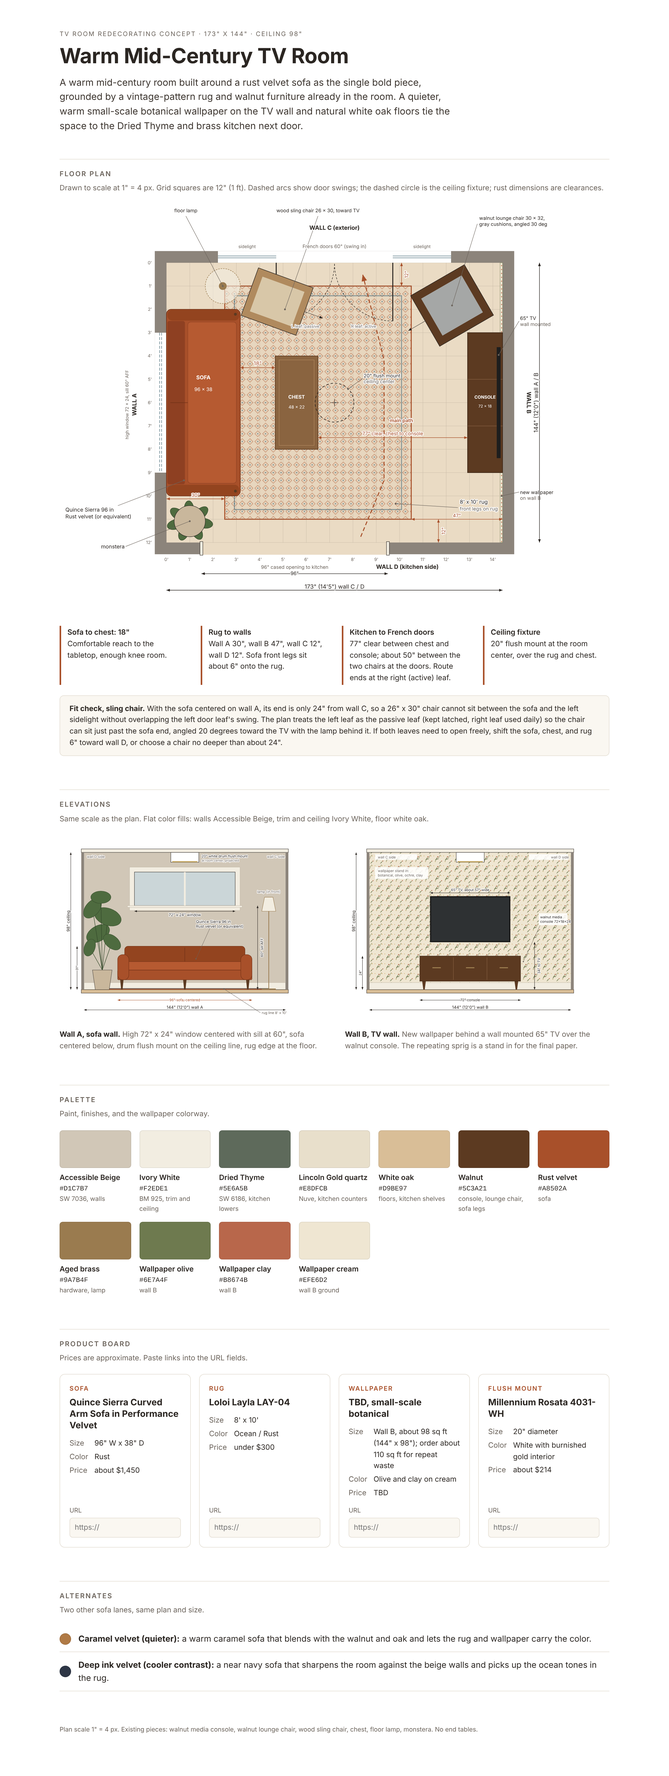
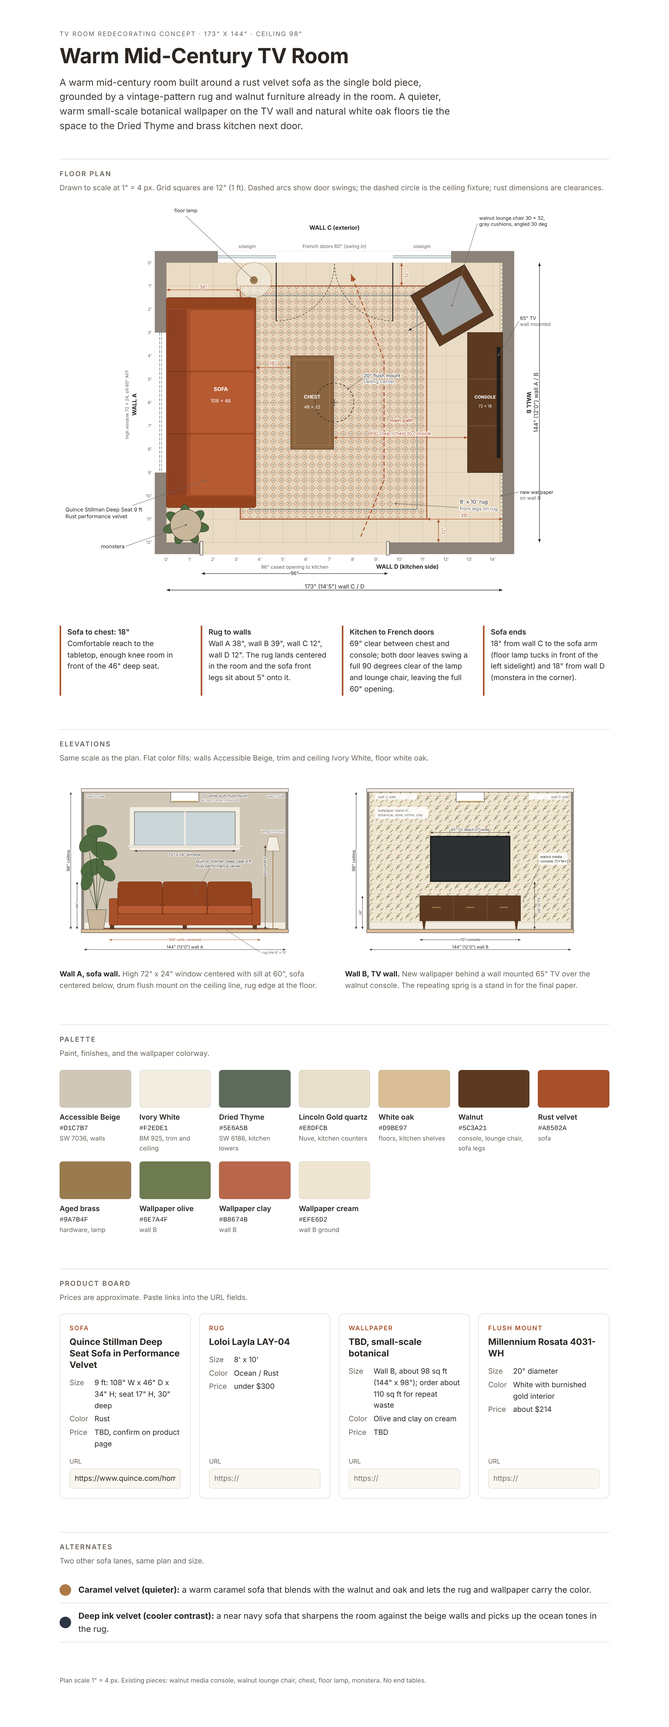
Swap to Quince Stillman 9 ft deep seat sofa and remove sling chair
Redraws plan and wall A elevation at 108 x 46 x 34, recenters chest and rug,
restores both French door leaves, and updates clearances and product card.

Claude-Session: https://claude.ai/code/session_014nUbJTm2NDApbS2dWqrat1

diff --git a/tv-room-concept.html b/tv-room-concept.html
@@ -83,8 +83,8 @@ footer{font-size:12px;color:var(--muted)}
 </defs>
 <rect x="196" y="96" width="740" height="624" fill="#8C847B"/>
 <rect x="220" y="120" width="692" height="576" fill="#EADBC4"/>
-<rect x="340" y="168" width="384" height="480" fill="url(#rugpat)" stroke="#A8502A" stroke-width="2"/>
-<rect x="360" y="188" width="344" height="440" fill="none" stroke="#5D7A85" stroke-width="2" opacity="0.7"/>
+<rect x="372" y="168" width="384" height="480" fill="url(#rugpat)" stroke="#A8502A" stroke-width="2"/>
+<rect x="392" y="188" width="344" height="440" fill="none" stroke="#5D7A85" stroke-width="2" opacity="0.7"/>
 <g stroke="#7A6F64" stroke-width="0.5" opacity="0.35"><line x1="220" y1="120" x2="220" y2="696"/><line x1="268" y1="120" x2="268" y2="696"/><line x1="316" y1="120" x2="316" y2="696"/><line x1="364" y1="120" x2="364" y2="696"/><line x1="412" y1="120" x2="412" y2="696"/><line x1="460" y1="120" x2="460" y2="696"/><line x1="508" y1="120" x2="508" y2="696"/><line x1="556" y1="120" x2="556" y2="696"/><line x1="604" y1="120" x2="604" y2="696"/><line x1="652" y1="120" x2="652" y2="696"/><line x1="700" y1="120" x2="700" y2="696"/><line x1="748" y1="120" x2="748" y2="696"/><line x1="796" y1="120" x2="796" y2="696"/><line x1="844" y1="120" x2="844" y2="696"/><line x1="892" y1="120" x2="892" y2="696"/><line x1="220" y1="120" x2="912" y2="120"/><line x1="220" y1="168" x2="912" y2="168"/><line x1="220" y1="216" x2="912" y2="216"/><line x1="220" y1="264" x2="912" y2="264"/><line x1="220" y1="312" x2="912" y2="312"/><line x1="220" y1="360" x2="912" y2="360"/><line x1="220" y1="408" x2="912" y2="408"/><line x1="220" y1="456" x2="912" y2="456"/><line x1="220" y1="504" x2="912" y2="504"/><line x1="220" y1="552" x2="912" y2="552"/><line x1="220" y1="600" x2="912" y2="600"/><line x1="220" y1="648" x2="912" y2="648"/><line x1="220" y1="696" x2="912" y2="696"/></g>
 <text x="220" y="734" font-size="9" text-anchor="middle" class="gridt" fill="#6B635B">0'</text><text x="268" y="734" font-size="9" text-anchor="middle" class="gridt" fill="#6B635B">1'</text><text x="316" y="734" font-size="9" text-anchor="middle" class="gridt" fill="#6B635B">2'</text><text x="364" y="734" font-size="9" text-anchor="middle" class="gridt" fill="#6B635B">3'</text><text x="412" y="734" font-size="9" text-anchor="middle" class="gridt" fill="#6B635B">4'</text><text x="460" y="734" font-size="9" text-anchor="middle" class="gridt" fill="#6B635B">5'</text><text x="508" y="734" font-size="9" text-anchor="middle" class="gridt" fill="#6B635B">6'</text><text x="556" y="734" font-size="9" text-anchor="middle" class="gridt" fill="#6B635B">7'</text><text x="604" y="734" font-size="9" text-anchor="middle" class="gridt" fill="#6B635B">8'</text><text x="652" y="734" font-size="9" text-anchor="middle" class="gridt" fill="#6B635B">9'</text><text x="700" y="734" font-size="9" text-anchor="middle" class="gridt" fill="#6B635B">10'</text><text x="748" y="734" font-size="9" text-anchor="middle" class="gridt" fill="#6B635B">11'</text><text x="796" y="734" font-size="9" text-anchor="middle" class="gridt" fill="#6B635B">12'</text><text x="844" y="734" font-size="9" text-anchor="middle" class="gridt" fill="#6B635B">13'</text><text x="892" y="734" font-size="9" text-anchor="middle" class="gridt" fill="#6B635B">14'</text><text x="190" y="123" font-size="9" text-anchor="end" class="gridt" fill="#6B635B">0'</text><text x="190" y="171" font-size="9" text-anchor="end" class="gridt" fill="#6B635B">1'</text><text x="190" y="219" font-size="9" text-anchor="end" class="gridt" fill="#6B635B">2'</text><text x="190" y="267" font-size="9" text-anchor="end" class="gridt" fill="#6B635B">3'</text><text x="190" y="315" font-size="9" text-anchor="end" class="gridt" fill="#6B635B">4'</text><text x="190" y="363" font-size="9" text-anchor="end" class="gridt" fill="#6B635B">5'</text><text x="190" y="411" font-size="9" text-anchor="end" class="gridt" fill="#6B635B">6'</text><text x="190" y="459" font-size="9" text-anchor="end" class="gridt" fill="#6B635B">7'</text><text x="190" y="507" font-size="9" text-anchor="end" class="gridt" fill="#6B635B">8'</text><text x="190" y="555" font-size="9" text-anchor="end" class="gridt" fill="#6B635B">9'</text><text x="190" y="603" font-size="9" text-anchor="end" class="gridt" fill="#6B635B">10'</text><text x="190" y="651" font-size="9" text-anchor="end" class="gridt" fill="#6B635B">11'</text><text x="190" y="699" font-size="9" text-anchor="end" class="gridt" fill="#6B635B">12'</text>
 <rect x="326.0" y="96" width="120.0" height="24" fill="#fff"/>
@@ -106,42 +106,40 @@ footer{font-size:12px;color:var(--muted)}
 <rect x="673" y="694" width="6" height="28" fill="#F2EDE1" stroke="#2B2622" stroke-width="0.8"/>
 <rect x="907" y="120" width="5" height="576" fill="url(#wp-strip)" stroke="#6E7A4F" stroke-width="0.6"/>
 <g>
-<rect x="220" y="216" width="152" height="384" rx="10" fill="#A8502A" stroke="#6E2F15" stroke-width="1.2"/>
-<rect x="222" y="240" width="36" height="336" rx="4" fill="#8E4022"/>
-<rect x="222" y="217" width="148" height="22" rx="10" fill="#93441F"/>
-<rect x="222" y="577" width="148" height="22" rx="10" fill="#93441F"/>
-<rect x="264" y="242" width="100" height="332" rx="6" fill="#B65A31" stroke="#8E4022" stroke-width="0.8"/>
-<line x1="228" y1="408" x2="264" y2="408" stroke="#6E2F15" stroke-width="1"/>
-<circle cx="362.0" cy="226.0" r="3" fill="#5C3A21"/>
-<circle cx="362.0" cy="590.0" r="3" fill="#5C3A21"/>
+<rect x="220" y="192" width="184" height="432" rx="4" fill="#A8502A" stroke="#6E2F15" stroke-width="1.2"/>
+<rect x="222" y="216" width="40" height="384" rx="3" fill="#8E4022"/>
+<rect x="221" y="193" width="182" height="22" rx="3" fill="#93441F"/>
+<rect x="221" y="601" width="182" height="22" rx="3" fill="#93441F"/>
+<rect x="268" y="217.0" width="132" height="126.0" rx="5" fill="#B65A31" stroke="#8E4022" stroke-width="0.8"/>
+<rect x="268" y="345.0" width="132" height="126.0" rx="5" fill="#B65A31" stroke="#8E4022" stroke-width="0.8"/>
+<line x1="224" y1="344.0" x2="268" y2="344.0" stroke="#6E2F15" stroke-width="1"/>
+<rect x="268" y="473.0" width="132" height="126.0" rx="5" fill="#B65A31" stroke="#8E4022" stroke-width="0.8"/>
+<line x1="224" y1="472.0" x2="268" y2="472.0" stroke="#6E2F15" stroke-width="1"/>
 </g>
-<rect x="444" y="312" width="88" height="192" fill="#8A6440" stroke="#5C3A21" stroke-width="1.2"/>
-<rect x="452" y="320" width="72" height="176" fill="none" stroke="#B48C62" stroke-width="0.8"/>
+<rect x="476" y="312" width="88" height="192" fill="#8A6440" stroke="#5C3A21" stroke-width="1.2"/>
+<rect x="484" y="320" width="72" height="176" fill="none" stroke="#B48C62" stroke-width="0.8"/>
 <rect x="840" y="264" width="72" height="288" fill="#5C3A21" stroke="#3A2414" stroke-width="1.2"/>
 <line x1="840" y1="360" x2="912" y2="360" stroke="#8B6446" stroke-width="0.8"/>
 <line x1="840" y1="456" x2="912" y2="456" stroke="#8B6446" stroke-width="0.8"/>
 <rect x="900" y="293.8" width="8" height="228.39999999999998" fill="#1E1E1E"/>
 <polygon points="893.4,228 782.6,292 722.6,188 833.4,124" fill="#5C3A21" stroke="#2B2622" stroke-width="1"/><polygon points="871.6,222.1 788.4,270.1 744.4,193.9 827.6,145.9" fill="#A5A7A6" stroke="none"/>
-<polygon points="409.4,130.6 522.2,171.7 486.6,269.4 373.8,228.3" fill="#B08A5E" stroke="#2B2622" stroke-width="1"/><polygon points="417.8,148.6 504.2,180 478.2,251.4 391.8,220" fill="#D8C7A8" stroke="none"/>
 <line x1="752.6" y1="240" x2="717.9" y2="260" stroke="#6B635B" stroke-width="1" marker-end="url(#fp-a)"/>
-<line x1="504.4" y1="220.5" x2="542" y2="234.2" stroke="#6B635B" stroke-width="1" marker-end="url(#fp-a)"/>
-<circle cx="336" cy="168" r="36" fill="#F2EDE1" fill-opacity="0.6" stroke="#9A7B4F" stroke-width="1" stroke-dasharray="3 2"/>
-<circle cx="336" cy="168" r="8" fill="#9A7B4F"/>
-<ellipse cx="297.5" cy="656.2" rx="18" ry="10" transform="rotate(10 297.5 656.2)" fill="#4E6B3F" stroke="#33482A" stroke-width="0.8"/><ellipse cx="282.3" cy="673.1" rx="18" ry="10" transform="rotate(61.4 282.3 673.1)" fill="#4E6B3F" stroke="#33482A" stroke-width="0.8"/><ellipse cx="256.3" cy="674.1" rx="18" ry="10" transform="rotate(112.9 256.3 674.1)" fill="#4E6B3F" stroke="#33482A" stroke-width="0.8"/><ellipse cx="239.1" cy="658.5" rx="18" ry="10" transform="rotate(164.3 239.1 658.5)" fill="#4E6B3F" stroke="#33482A" stroke-width="0.8"/><ellipse cx="243.6" cy="638" rx="18" ry="10" transform="rotate(215.7 243.6 638)" fill="#4E6B3F" stroke="#33482A" stroke-width="0.8"/><ellipse cx="266.5" cy="628" rx="18" ry="10" transform="rotate(267.1 266.5 628)" fill="#4E6B3F" stroke="#33482A" stroke-width="0.8"/><ellipse cx="290.5" cy="636.1" rx="18" ry="10" transform="rotate(318.6 290.5 636.1)" fill="#4E6B3F" stroke="#33482A" stroke-width="0.8"/>
-<circle cx="268" cy="652" r="32" fill="#C9B79C" stroke="#2B2622" stroke-width="0.8"/>
+<circle cx="400" cy="156" r="36" fill="#F2EDE1" fill-opacity="0.6" stroke="#9A7B4F" stroke-width="1" stroke-dasharray="3 2"/>
+<circle cx="400" cy="156" r="8" fill="#9A7B4F"/>
+<ellipse cx="289.5" cy="664.2" rx="18" ry="10" transform="rotate(10 289.5 664.2)" fill="#4E6B3F" stroke="#33482A" stroke-width="0.8"/><ellipse cx="274.3" cy="681.1" rx="18" ry="10" transform="rotate(61.4 274.3 681.1)" fill="#4E6B3F" stroke="#33482A" stroke-width="0.8"/><ellipse cx="248.3" cy="682.1" rx="18" ry="10" transform="rotate(112.9 248.3 682.1)" fill="#4E6B3F" stroke="#33482A" stroke-width="0.8"/><ellipse cx="231.1" cy="666.5" rx="18" ry="10" transform="rotate(164.3 231.1 666.5)" fill="#4E6B3F" stroke="#33482A" stroke-width="0.8"/><ellipse cx="235.6" cy="646" rx="18" ry="10" transform="rotate(215.7 235.6 646)" fill="#4E6B3F" stroke="#33482A" stroke-width="0.8"/><ellipse cx="258.5" cy="636" rx="18" ry="10" transform="rotate(267.1 258.5 636)" fill="#4E6B3F" stroke="#33482A" stroke-width="0.8"/><ellipse cx="282.5" cy="644.1" rx="18" ry="10" transform="rotate(318.6 282.5 644.1)" fill="#4E6B3F" stroke="#33482A" stroke-width="0.8"/>
+<circle cx="260" cy="660" r="32" fill="#C9B79C" stroke="#2B2622" stroke-width="0.8"/>
 <circle cx="566.0" cy="408.0" r="40" fill="none" stroke="#2B2622" stroke-width="1.2" stroke-dasharray="5 4"/>
 <line x1="558.0" y1="408.0" x2="574.0" y2="408.0" stroke="#2B2622" stroke-width="0.8"/><line x1="566.0" y1="400.0" x2="566.0" y2="416.0" stroke="#2B2622" stroke-width="0.8"/>
-<polyline points="620,684 668,568 668,320 624,144" fill="none" stroke="#A8502A" stroke-width="2" stroke-dasharray="8 5" marker-end="url(#fp-c)"/>
-<text x="296" y="360" font-size="11" text-anchor="middle" class="tag" fill="#fff" font-weight="700">SOFA</text><text x="296" y="384" font-size="10" text-anchor="middle" class="tag" fill="#fff">96 x 38</text><text x="488" y="400" font-size="10" text-anchor="middle" class="tag" fill="#fff" font-weight="700">CHEST</text><text x="488" y="420" font-size="9" text-anchor="middle" class="tag" fill="#fff">48 x 22</text><text x="876" y="400" font-size="9" text-anchor="middle" class="tag" fill="#fff" font-weight="700">CONSOLE</text><text x="876" y="418" font-size="8" text-anchor="middle" class="tag" fill="#fff">72 x 18</text><polyline points="256,568 120,620" fill="none" stroke="#6B635B" stroke-width="0.8"/><circle cx="256" cy="568" r="1.8" fill="#6B635B"/><text x="12" y="632" font-size="11" text-anchor="start" class="lbl" fill="#2B2622">Quince Sierra 96 in</text><text x="12" y="646" font-size="11" text-anchor="start" class="lbl" fill="#2B2622">Rust velvet (or equivalent)</text><polyline points="692,616 820,624" fill="none" stroke="#6B635B" stroke-width="0.8"/><circle cx="692" cy="616" r="1.8" fill="#6B635B"/><text x="824" y="616" font-size="11" text-anchor="start" class="lbl" fill="#2B2622">8' x 10' rug</text><text x="824" y="630" font-size="10" text-anchor="start" class="lbl" fill="#6B635B">front legs on rug</text><polyline points="808,208 860,40" fill="none" stroke="#6B635B" stroke-width="0.8"/><circle cx="808" cy="208" r="1.8" fill="#6B635B"/><text x="864" y="32" font-size="10" text-anchor="start" class="lbl" fill="#2B2622">walnut lounge chair 30 x 32,</text><text x="864" y="44" font-size="10" text-anchor="start" class="lbl" fill="#2B2622">gray cushions, angled 30 deg</text><polyline points="464,216 532,24" fill="none" stroke="#6B635B" stroke-width="0.8"/><circle cx="464" cy="216" r="1.8" fill="#6B635B"/><text x="532" y="16" font-size="10" text-anchor="middle" class="lbl" fill="#2B2622">wood sling chair 26 x 30, toward TV</text><polyline points="336,168 260,24" fill="none" stroke="#6B635B" stroke-width="0.8"/><circle cx="336" cy="168" r="1.8" fill="#6B635B"/><text x="260" y="16" font-size="10" text-anchor="middle" class="lbl" fill="#2B2622">floor lamp</text><polyline points="268,652 136,704" fill="none" stroke="#6B635B" stroke-width="0.8"/><circle cx="268" cy="652" r="1.8" fill="#6B635B"/><text x="134" y="708" font-size="11" text-anchor="end" class="lbl" fill="#2B2622">monstera</text><polyline points="594,380 624,358" fill="none" stroke="#6B635B" stroke-width="0.8"/><circle cx="594" cy="380" r="1.8" fill="#6B635B"/><text x="626" y="356" font-size="10" text-anchor="start" class="lbl" fill="#2B2622">20" flush mount</text><text x="626" y="368" font-size="10" text-anchor="start" class="lbl" fill="#6B635B">ceiling center</text><polyline points="904,309.8 946,240" fill="none" stroke="#6B635B" stroke-width="0.8"/><circle cx="904" cy="309.8" r="1.8" fill="#6B635B"/><text x="948" y="238" font-size="10" text-anchor="start" class="lbl" fill="#2B2622">65" TV</text><text x="948" y="250" font-size="10" text-anchor="start" class="lbl" fill="#6B635B">wall mounted</text><polyline points="910,600 946,592" fill="none" stroke="#6B635B" stroke-width="0.8"/><circle cx="910" cy="600" r="1.8" fill="#6B635B"/><text x="948" y="596" font-size="10" text-anchor="start" class="lbl" fill="#2B2622">new wallpaper</text><text x="948" y="608" font-size="10" text-anchor="start" class="lbl" fill="#6B635B">on wall B</text><text x="564" y="360" font-size="10" text-anchor="start" class="lbl" fill="#2B2622"></text><text x="680" y="448" font-size="10" text-anchor="start" class="lbl" fill="#A8502A" font-weight="600">main path</text><text x="566" y="90" font-size="10" text-anchor="middle" class="lbl" fill="#6B635B">French doors 60" (swing in)</text><text x="386" y="90" font-size="9" text-anchor="middle" class="lbl" fill="#6B635B">sidelight</text><text x="746" y="90" font-size="9" text-anchor="middle" class="lbl" fill="#6B635B">sidelight</text><text x="506" y="254" font-size="8.5" text-anchor="middle" class="lbl" fill="#6B635B">L leaf: passive</text><text x="626" y="254" font-size="8.5" text-anchor="middle" class="lbl" fill="#6B635B">R leaf: active</text><text x="484" y="750" font-size="10" text-anchor="middle" class="lbl" fill="#6B635B">96" cased opening to kitchen</text><text transform="rotate(-90 158 412)" x="158" y="412" font-size="12" text-anchor="middle" class="wall" fill="#2B2622" font-weight="700">WALL A</text><text transform="rotate(-90 142 412)" x="142" y="412" font-size="9" text-anchor="middle" class="lbl" fill="#6B635B">high window 72 x 24, sill 60" AFF</text><text transform="rotate(90 962 408)" x="962" y="408" font-size="12" text-anchor="middle" class="wall" fill="#2B2622" font-weight="700">WALL B</text><text x="566" y="52" font-size="12" text-anchor="middle" class="wall" fill="#2B2622" font-weight="700">WALL C  (exterior)</text><text x="716" y="750" font-size="12" text-anchor="middle" class="wall" fill="#2B2622" font-weight="700">WALL D  (kitchen side)</text>
-<line x1="220" y1="794" x2="912" y2="794" stroke="#2B2622" stroke-width="1" marker-start="url(#fp-a)" marker-end="url(#fp-a)"/><text x="566" y="791" class="dimt" font-size="12" fill="#2B2622" text-anchor="middle">173" (14'5")  wall C / D</text><line x1="988" y1="120" x2="988" y2="696" stroke="#2B2622" stroke-width="1" marker-start="url(#fp-a)" marker-end="url(#fp-a)"/><text x="981" y="412" class="dimt" font-size="12" fill="#2B2622" text-anchor="middle" transform="rotate(-90 981 408)">144" (12'0")  wall A / B</text><line x1="292" y1="760" x2="676" y2="760" stroke="#2B2622" stroke-width="1" marker-start="url(#fp-a)" marker-end="url(#fp-a)"/><text x="484" y="763" class="dimt" font-size="10" fill="#2B2622" text-anchor="middle">96"</text><line x1="372" y1="336" x2="444" y2="336" stroke="#A8502A" stroke-width="1" marker-start="url(#fp-c)" marker-end="url(#fp-c)"/><text x="408" y="331" class="dimt" font-size="11" fill="#A8502A" text-anchor="middle">18"</text><line x1="220" y1="606" x2="340" y2="606" stroke="#A8502A" stroke-width="1" marker-start="url(#fp-c)" marker-end="url(#fp-c)"/><text x="280" y="602" class="dimt" font-size="10" fill="#A8502A" text-anchor="middle">30"</text><line x1="724" y1="648" x2="912" y2="648" stroke="#A8502A" stroke-width="1" marker-start="url(#fp-c)" marker-end="url(#fp-c)"/><text x="818" y="644" class="dimt" font-size="10" fill="#A8502A" text-anchor="middle">47"</text><line x1="704" y1="120" x2="704" y2="168" stroke="#A8502A" stroke-width="1" marker-start="url(#fp-c)" marker-end="url(#fp-c)"/><text x="714" y="148" class="dimt" font-size="10" fill="#A8502A" text-anchor="middle" transform="rotate(-90 714 144)">12"</text><line x1="780" y1="648" x2="780" y2="696" stroke="#A8502A" stroke-width="1" marker-start="url(#fp-c)" marker-end="url(#fp-c)"/><text x="790" y="676" class="dimt" font-size="10" fill="#A8502A" text-anchor="middle" transform="rotate(-90 790 672)">12"</text><line x1="532" y1="480" x2="840" y2="480" stroke="#A8502A" stroke-width="1" marker-start="url(#fp-c)" marker-end="url(#fp-c)"/><text x="686" y="475" class="dimt" font-size="10" fill="#A8502A" text-anchor="middle">77" clear, chest to console</text>
+<polyline points="620,684 668,568 668,320 600,144" fill="none" stroke="#A8502A" stroke-width="2" stroke-dasharray="8 5" marker-end="url(#fp-c)"/>
+<text x="332" y="384" font-size="11" text-anchor="middle" class="tag" fill="#fff" font-weight="700">SOFA</text><text x="332" y="408" font-size="10" text-anchor="middle" class="tag" fill="#fff">108 x 46</text><text x="520" y="400" font-size="10" text-anchor="middle" class="tag" fill="#fff" font-weight="700">CHEST</text><text x="520" y="420" font-size="9" text-anchor="middle" class="tag" fill="#fff">48 x 22</text><text x="876" y="400" font-size="9" text-anchor="middle" class="tag" fill="#fff" font-weight="700">CONSOLE</text><text x="876" y="418" font-size="8" text-anchor="middle" class="tag" fill="#fff">72 x 18</text><polyline points="300,568 150,620" fill="none" stroke="#6B635B" stroke-width="0.8"/><circle cx="300" cy="568" r="1.8" fill="#6B635B"/><text x="12" y="632" font-size="11" text-anchor="start" class="lbl" fill="#2B2622">Quince Stillman Deep Seat 9 ft</text><text x="12" y="646" font-size="11" text-anchor="start" class="lbl" fill="#2B2622">Rust performance velvet</text><polyline points="692,616 820,624" fill="none" stroke="#6B635B" stroke-width="0.8"/><circle cx="692" cy="616" r="1.8" fill="#6B635B"/><text x="824" y="616" font-size="11" text-anchor="start" class="lbl" fill="#2B2622">8' x 10' rug</text><text x="824" y="630" font-size="10" text-anchor="start" class="lbl" fill="#6B635B">front legs on rug</text><polyline points="808,208 860,40" fill="none" stroke="#6B635B" stroke-width="0.8"/><circle cx="808" cy="208" r="1.8" fill="#6B635B"/><text x="864" y="32" font-size="10" text-anchor="start" class="lbl" fill="#2B2622">walnut lounge chair 30 x 32,</text><text x="864" y="44" font-size="10" text-anchor="start" class="lbl" fill="#2B2622">gray cushions, angled 30 deg</text><polyline points="400,156 260,24" fill="none" stroke="#6B635B" stroke-width="0.8"/><circle cx="400" cy="156" r="1.8" fill="#6B635B"/><text x="260" y="16" font-size="10" text-anchor="middle" class="lbl" fill="#2B2622">floor lamp</text><polyline points="260,660 136,704" fill="none" stroke="#6B635B" stroke-width="0.8"/><circle cx="260" cy="660" r="1.8" fill="#6B635B"/><text x="134" y="708" font-size="11" text-anchor="end" class="lbl" fill="#2B2622">monstera</text><polyline points="594,380 624,358" fill="none" stroke="#6B635B" stroke-width="0.8"/><circle cx="594" cy="380" r="1.8" fill="#6B635B"/><text x="626" y="356" font-size="10" text-anchor="start" class="lbl" fill="#2B2622">20" flush mount</text><text x="626" y="368" font-size="10" text-anchor="start" class="lbl" fill="#6B635B">ceiling center</text><polyline points="904,309.8 946,240" fill="none" stroke="#6B635B" stroke-width="0.8"/><circle cx="904" cy="309.8" r="1.8" fill="#6B635B"/><text x="948" y="238" font-size="10" text-anchor="start" class="lbl" fill="#2B2622">65" TV</text><text x="948" y="250" font-size="10" text-anchor="start" class="lbl" fill="#6B635B">wall mounted</text><polyline points="910,600 946,592" fill="none" stroke="#6B635B" stroke-width="0.8"/><circle cx="910" cy="600" r="1.8" fill="#6B635B"/><text x="948" y="596" font-size="10" text-anchor="start" class="lbl" fill="#2B2622">new wallpaper</text><text x="948" y="608" font-size="10" text-anchor="start" class="lbl" fill="#6B635B">on wall B</text><text x="564" y="360" font-size="10" text-anchor="start" class="lbl" fill="#2B2622"></text><text x="680" y="448" font-size="10" text-anchor="start" class="lbl" fill="#A8502A" font-weight="600">main path</text><text x="566" y="90" font-size="10" text-anchor="middle" class="lbl" fill="#6B635B">French doors 60" (swing in)</text><text x="386" y="90" font-size="9" text-anchor="middle" class="lbl" fill="#6B635B">sidelight</text><text x="746" y="90" font-size="9" text-anchor="middle" class="lbl" fill="#6B635B">sidelight</text><text x="484" y="750" font-size="10" text-anchor="middle" class="lbl" fill="#6B635B">96" cased opening to kitchen</text><text transform="rotate(-90 158 412)" x="158" y="412" font-size="12" text-anchor="middle" class="wall" fill="#2B2622" font-weight="700">WALL A</text><text transform="rotate(-90 142 412)" x="142" y="412" font-size="9" text-anchor="middle" class="lbl" fill="#6B635B">high window 72 x 24, sill 60" AFF</text><text transform="rotate(90 962 408)" x="962" y="408" font-size="12" text-anchor="middle" class="wall" fill="#2B2622" font-weight="700">WALL B</text><text x="566" y="52" font-size="12" text-anchor="middle" class="wall" fill="#2B2622" font-weight="700">WALL C  (exterior)</text><text x="716" y="750" font-size="12" text-anchor="middle" class="wall" fill="#2B2622" font-weight="700">WALL D  (kitchen side)</text>
+<line x1="220" y1="794" x2="912" y2="794" stroke="#2B2622" stroke-width="1" marker-start="url(#fp-a)" marker-end="url(#fp-a)"/><text x="566" y="791" class="dimt" font-size="12" fill="#2B2622" text-anchor="middle">173" (14'5")  wall C / D</text><line x1="988" y1="120" x2="988" y2="696" stroke="#2B2622" stroke-width="1" marker-start="url(#fp-a)" marker-end="url(#fp-a)"/><text x="981" y="412" class="dimt" font-size="12" fill="#2B2622" text-anchor="middle" transform="rotate(-90 981 408)">144" (12'0")  wall A / B</text><line x1="292" y1="760" x2="676" y2="760" stroke="#2B2622" stroke-width="1" marker-start="url(#fp-a)" marker-end="url(#fp-a)"/><text x="484" y="763" class="dimt" font-size="10" fill="#2B2622" text-anchor="middle">96"</text><line x1="404" y1="336" x2="476" y2="336" stroke="#A8502A" stroke-width="1" marker-start="url(#fp-c)" marker-end="url(#fp-c)"/><text x="440" y="331" class="dimt" font-size="11" fill="#A8502A" text-anchor="middle">18"</text><line x1="220" y1="176" x2="372" y2="176" stroke="#A8502A" stroke-width="1" marker-start="url(#fp-c)" marker-end="url(#fp-c)"/><text x="296" y="174" class="dimt" font-size="10" fill="#A8502A" text-anchor="middle">38"</text><line x1="756" y1="648" x2="912" y2="648" stroke="#A8502A" stroke-width="1" marker-start="url(#fp-c)" marker-end="url(#fp-c)"/><text x="834" y="644" class="dimt" font-size="10" fill="#A8502A" text-anchor="middle">39"</text><line x1="704" y1="120" x2="704" y2="168" stroke="#A8502A" stroke-width="1" marker-start="url(#fp-c)" marker-end="url(#fp-c)"/><text x="714" y="148" class="dimt" font-size="10" fill="#A8502A" text-anchor="middle" transform="rotate(-90 714 144)">12"</text><line x1="780" y1="648" x2="780" y2="696" stroke="#A8502A" stroke-width="1" marker-start="url(#fp-c)" marker-end="url(#fp-c)"/><text x="790" y="676" class="dimt" font-size="10" fill="#A8502A" text-anchor="middle" transform="rotate(-90 790 672)">12"</text><line x1="564" y1="480" x2="840" y2="480" stroke="#A8502A" stroke-width="1" marker-start="url(#fp-c)" marker-end="url(#fp-c)"/><text x="702" y="475" class="dimt" font-size="10" fill="#A8502A" text-anchor="middle">69" clear, chest to console</text>
 </svg></figure>
 <ul class="notes">
-<li><b>Sofa to chest: 18"</b>Comfortable reach to the tabletop, enough knee room.</li>
-<li><b>Rug to walls</b>Wall A 30", wall B 47", wall C 12", wall D 12". Sofa front legs sit about 6" onto the rug.</li>
-<li><b>Kitchen to French doors</b>77" clear between chest and console; about 50" between the two chairs at the doors. Route ends at the right (active) leaf.</li>
-<li><b>Ceiling fixture</b>20" flush mount at the room center, over the rug and chest.</li>
+<li><b>Sofa to chest: 18"</b>Comfortable reach to the tabletop, enough knee room in front of the 46" deep seat.</li>
+<li><b>Rug to walls</b>Wall A 38", wall B 39", wall C 12", wall D 12". The rug lands centered in the room and the sofa front legs sit about 5" onto it.</li>
+<li><b>Kitchen to French doors</b>69" clear between chest and console; both door leaves swing a full 90 degrees clear of the lamp and lounge chair, leaving the full 60" opening.</li>
+<li><b>Sofa ends</b>18" from wall C to the sofa arm (floor lamp tucks in front of the left sidelight) and 18" from wall D (monstera in the corner).</li>
 </ul>
-<div class="fit"><b>Fit check, sling chair.</b> With the sofa centered on wall A, its end is only 24" from wall C, so a 26" x 30" chair cannot sit between the sofa and the left sidelight without overlapping the left door leaf's swing. The plan treats the left leaf as the passive leaf (kept latched, right leaf used daily) so the chair can sit just past the sofa end, angled 20 degrees toward the TV with the lamp behind it. If both leaves need to open freely, shift the sofa, chest, and rug 6" toward wall D, or choose a chair no deeper than about 24".</div>
 </section>
 
 <section id="elevations">
@@ -163,33 +161,37 @@ footer{font-size:12px;color:var(--muted)}
 <rect x="194" y="202" width="328" height="5" fill="#F2EDE1" stroke="#BDB3A2" stroke-width="0.8"/>
 <rect x="118" y="438" width="480" height="4" fill="#A8502A"/>
 <rect x="118" y="438" width="480" height="1.5" fill="#5D7A85"/>
-<polygon points="173.2,414 182.8,414 180,442 176,442" fill="#5C3A21"/>
-<polygon points="533.2,414 542.8,414 540,442 536,442" fill="#5C3A21"/>
-<polygon points="353.2,414 362.8,414 360,442 356,442" fill="#5C3A21"/>
-<rect x="186" y="318" width="344" height="56" rx="10" fill="#93441F" stroke="#6E2F15" stroke-width="1"/>
-<line x1="358" y1="322" x2="358" y2="366" stroke="#6E2F15" stroke-width="1.2"/>
-<rect x="166" y="386" width="384" height="28" rx="3" fill="#A8502A" stroke="#6E2F15" stroke-width="1"/>
-<rect x="190" y="362" width="336" height="24" rx="6" fill="#B65A31" stroke="#6E2F15" stroke-width="1"/>
-<rect x="166" y="342" width="32" height="72" rx="14" fill="#A8502A" stroke="#6E2F15" stroke-width="1"/>
-<rect x="518" y="342" width="32" height="72" rx="14" fill="#A8502A" stroke="#6E2F15" stroke-width="1"/>
-<polygon points="94,386 150,386 142,442 102,442" fill="#C9B79C" stroke="#2B2622" stroke-width="0.8"/>
-<line x1="122" y1="386" x2="110" y2="282" stroke="#33482A" stroke-width="1.2"/>
-<ellipse cx="110" cy="282" rx="36.0" ry="22.0" transform="rotate(-30 110 282)" fill="#4E6B3F" stroke="#33482A" stroke-width="0.8"/>
-<line x1="122" y1="386" x2="138" y2="234" stroke="#33482A" stroke-width="1.2"/>
-<ellipse cx="138" cy="234" rx="39.6" ry="24.200000000000003" transform="rotate(20 138 234)" fill="#4E6B3F" stroke="#33482A" stroke-width="0.8"/>
-<line x1="122" y1="386" x2="94" y2="210" stroke="#33482A" stroke-width="1.2"/>
-<ellipse cx="94" cy="210" rx="32.4" ry="19.8" transform="rotate(-50 94 210)" fill="#4E6B3F" stroke="#33482A" stroke-width="0.8"/>
-<line x1="122" y1="386" x2="150" y2="306" stroke="#33482A" stroke-width="1.2"/>
-<ellipse cx="150" cy="306" rx="28.8" ry="17.6" transform="rotate(40 150 306)" fill="#4E6B3F" stroke="#33482A" stroke-width="0.8"/>
-<line x1="122" y1="386" x2="118" y2="178" stroke="#33482A" stroke-width="1.2"/>
-<ellipse cx="118" cy="178" rx="28.8" ry="17.6" transform="rotate(0 118 178)" fill="#4E6B3F" stroke="#33482A" stroke-width="0.8"/>
-<line x1="122" y1="386" x2="86" y2="322" stroke="#33482A" stroke-width="1.2"/>
-<ellipse cx="86" cy="322" rx="25.2" ry="15.400000000000002" transform="rotate(-70 86 322)" fill="#4E6B3F" stroke="#33482A" stroke-width="0.8"/>
-<line x1="598" y1="442" x2="598" y2="218" stroke="#9A7B4F" stroke-width="2"/>
-<rect x="578" y="439" width="40" height="3" fill="#9A7B4F"/>
-<polygon points="578,218 618,218 610,178 586,178" fill="#F2EDE1" stroke="#9A7B4F" stroke-width="1"/>
+<rect x="144.0" y="430" width="12" height="12" fill="#5C3A21"/>
+<rect x="352.0" y="430" width="12" height="12" fill="#5C3A21"/>
+<rect x="552.0" y="430" width="12" height="12" fill="#5C3A21"/>
+<rect x="166" y="322" width="384" height="76" rx="3" fill="#8E4022" stroke="#6E2F15" stroke-width="1"/>
+<rect x="167" y="306" width="126" height="68" rx="8" fill="#93441F" stroke="#6E2F15" stroke-width="1"/>
+<rect x="295" y="306" width="126" height="68" rx="8" fill="#93441F" stroke="#6E2F15" stroke-width="1"/>
+<rect x="423" y="306" width="126" height="68" rx="8" fill="#93441F" stroke="#6E2F15" stroke-width="1"/>
+<rect x="142" y="398" width="432" height="32" rx="2" fill="#A8502A" stroke="#6E2F15" stroke-width="1"/>
+<rect x="167" y="374" width="126" height="24" rx="5" fill="#B65A31" stroke="#6E2F15" stroke-width="1"/>
+<rect x="295" y="374" width="126" height="24" rx="5" fill="#B65A31" stroke="#6E2F15" stroke-width="1"/>
+<rect x="423" y="374" width="126" height="24" rx="5" fill="#B65A31" stroke="#6E2F15" stroke-width="1"/>
+<rect x="142" y="354" width="24" height="76" rx="4" fill="#A8502A" stroke="#6E2F15" stroke-width="1"/>
+<rect x="550" y="354" width="24" height="76" rx="4" fill="#A8502A" stroke="#6E2F15" stroke-width="1"/>
+<polygon points="78,386 134,386 126,442 86,442" fill="#C9B79C" stroke="#2B2622" stroke-width="0.8"/>
+<line x1="106" y1="386" x2="94" y2="266" stroke="#33482A" stroke-width="1.2"/>
+<ellipse cx="94" cy="266" rx="36.0" ry="22.0" transform="rotate(-30 94 266)" fill="#4E6B3F" stroke="#33482A" stroke-width="0.8"/>
+<line x1="106" y1="386" x2="126" y2="218" stroke="#33482A" stroke-width="1.2"/>
+<ellipse cx="126" cy="218" rx="39.6" ry="24.200000000000003" transform="rotate(20 126 218)" fill="#4E6B3F" stroke="#33482A" stroke-width="0.8"/>
+<line x1="106" y1="386" x2="82" y2="194" stroke="#33482A" stroke-width="1.2"/>
+<ellipse cx="82" cy="194" rx="32.4" ry="19.8" transform="rotate(-50 82 194)" fill="#4E6B3F" stroke="#33482A" stroke-width="0.8"/>
+<line x1="106" y1="386" x2="134" y2="282" stroke="#33482A" stroke-width="1.2"/>
+<ellipse cx="134" cy="282" rx="28.8" ry="17.6" transform="rotate(40 134 282)" fill="#4E6B3F" stroke="#33482A" stroke-width="0.8"/>
+<line x1="106" y1="386" x2="106" y2="162" stroke="#33482A" stroke-width="1.2"/>
+<ellipse cx="106" cy="162" rx="28.8" ry="17.6" transform="rotate(0 106 162)" fill="#4E6B3F" stroke="#33482A" stroke-width="0.8"/>
+<line x1="106" y1="386" x2="78" y2="306" stroke="#33482A" stroke-width="1.2"/>
+<ellipse cx="78" cy="306" rx="25.2" ry="15.400000000000002" transform="rotate(-70 78 306)" fill="#4E6B3F" stroke="#33482A" stroke-width="0.8"/>
+<line x1="610" y1="442" x2="610" y2="218" stroke="#9A7B4F" stroke-width="2"/>
+<rect x="594" y="439" width="32" height="3" fill="#9A7B4F"/>
+<polygon points="590,218 630,218 622,178 598,178" fill="#F2EDE1" stroke="#9A7B4F" stroke-width="1"/>
 <rect x="318" y="50" width="80" height="28" fill="#FFFFFF" stroke="#2B2622" stroke-width="1"/><rect x="322" y="75" width="72" height="3" fill="#C8A85E"/>
-<line x1="70" y1="500" x2="646" y2="500" stroke="#2B2622" stroke-width="1" marker-start="url(#ea-a)" marker-end="url(#ea-a)"/><text x="358" y="497" class="dimt" font-size="12" fill="#2B2622" text-anchor="middle">144" (12'0") wall A</text><line x1="32" y1="442" x2="32" y2="50" stroke="#2B2622" stroke-width="1" marker-start="url(#ea-a)" marker-end="url(#ea-a)"/><text x="25" y="250" class="dimt" font-size="12" fill="#2B2622" text-anchor="middle" transform="rotate(-90 25 246)">98" ceiling</text><line x1="214" y1="218" x2="502" y2="218" stroke="#2B2622" stroke-width="1" marker-start="url(#ea-a)" marker-end="url(#ea-a)"/><text x="358" y="232" class="dimt" font-size="11" fill="#2B2622" text-anchor="middle">72" x 24" window</text><line x1="566" y1="442" x2="566" y2="202" stroke="#2B2622" stroke-width="1" marker-start="url(#ea-a)" marker-end="url(#ea-a)"/><text x="578" y="326" class="dimt" font-size="10" fill="#2B2622" text-anchor="middle" transform="rotate(-90 578 322)">60" sill AFF</text><line x1="166" y1="472" x2="550" y2="472" stroke="#A8502A" stroke-width="1" marker-start="url(#ea-c)" marker-end="url(#ea-c)"/><text x="358" y="475" class="dimt" font-size="10" fill="#A8502A" text-anchor="middle">96" sofa, centered</text><line x1="50" y1="442" x2="50" y2="318" stroke="#2B2622" stroke-width="1" marker-start="url(#ea-a)" marker-end="url(#ea-a)"/><text x="49" y="384" class="dimt" font-size="9" fill="#2B2622" text-anchor="middle" transform="rotate(-90 49 380)">31"</text><text x="406" y="64" font-size="10" text-anchor="start" class="lbl" fill="#2B2622">20" white drum flush mount</text><text x="406" y="76" font-size="9" text-anchor="start" class="lbl" fill="#6B635B">at room center, projected</text><polyline points="390,354 430,266" fill="none" stroke="#6B635B" stroke-width="0.8"/><circle cx="390" cy="354" r="1.8" fill="#6B635B"/><text x="390" y="252" font-size="11" text-anchor="start" class="lbl" fill="#2B2622">Quince Sierra 96 in</text><text x="390" y="265" font-size="11" text-anchor="start" class="lbl" fill="#2B2622">Rust velvet (or equivalent)</text><polyline points="470,440 574,508" fill="none" stroke="#6B635B" stroke-width="0.8"/><circle cx="470" cy="440" r="1.8" fill="#6B635B"/><text x="578" y="512" font-size="10" text-anchor="start" class="lbl" fill="#6B635B">rug line 8' x 10'</text><text x="598" y="166" font-size="10" text-anchor="middle" class="lbl" fill="#6B635B">lamp (in front)</text><text x="78" y="66" font-size="10" text-anchor="start" class="lbl" fill="#6B635B">wall D side</text><text x="644" y="66" font-size="10" text-anchor="end" class="lbl" fill="#6B635B">wall C side</text><text x="94" y="398" font-size="9" text-anchor="start" class="lbl" fill="#2B2622"></text>
+<line x1="70" y1="500" x2="646" y2="500" stroke="#2B2622" stroke-width="1" marker-start="url(#ea-a)" marker-end="url(#ea-a)"/><text x="358" y="497" class="dimt" font-size="12" fill="#2B2622" text-anchor="middle">144" (12'0") wall A</text><line x1="32" y1="442" x2="32" y2="50" stroke="#2B2622" stroke-width="1" marker-start="url(#ea-a)" marker-end="url(#ea-a)"/><text x="25" y="250" class="dimt" font-size="12" fill="#2B2622" text-anchor="middle" transform="rotate(-90 25 246)">98" ceiling</text><line x1="214" y1="218" x2="502" y2="218" stroke="#2B2622" stroke-width="1" marker-start="url(#ea-a)" marker-end="url(#ea-a)"/><text x="358" y="232" class="dimt" font-size="11" fill="#2B2622" text-anchor="middle">72" x 24" window</text><line x1="588" y1="442" x2="588" y2="202" stroke="#2B2622" stroke-width="1" marker-start="url(#ea-a)" marker-end="url(#ea-a)"/><text x="587" y="266" class="dimt" font-size="10" fill="#2B2622" text-anchor="middle" transform="rotate(-90 587 262)">60" sill AFF</text><line x1="142" y1="472" x2="574" y2="472" stroke="#A8502A" stroke-width="1" marker-start="url(#ea-c)" marker-end="url(#ea-c)"/><text x="358" y="475" class="dimt" font-size="10" fill="#A8502A" text-anchor="middle">108" sofa, centered</text><line x1="50" y1="442" x2="50" y2="306" stroke="#2B2622" stroke-width="1" marker-start="url(#ea-a)" marker-end="url(#ea-a)"/><text x="49" y="378" class="dimt" font-size="9" fill="#2B2622" text-anchor="middle" transform="rotate(-90 49 374)">34"</text><text x="406" y="64" font-size="10" text-anchor="start" class="lbl" fill="#2B2622">20" white drum flush mount</text><text x="406" y="76" font-size="9" text-anchor="start" class="lbl" fill="#6B635B">at room center, projected</text><polyline points="390,338 430,266" fill="none" stroke="#6B635B" stroke-width="0.8"/><circle cx="390" cy="338" r="1.8" fill="#6B635B"/><text x="390" y="252" font-size="11" text-anchor="start" class="lbl" fill="#2B2622">Quince Stillman Deep Seat 9 ft</text><text x="390" y="265" font-size="11" text-anchor="start" class="lbl" fill="#2B2622">Rust performance velvet</text><polyline points="470,440 574,508" fill="none" stroke="#6B635B" stroke-width="0.8"/><circle cx="470" cy="440" r="1.8" fill="#6B635B"/><text x="578" y="512" font-size="10" text-anchor="start" class="lbl" fill="#6B635B">rug line 8' x 10'</text><text x="610" y="166" font-size="10" text-anchor="middle" class="lbl" fill="#6B635B">lamp (in front)</text><text x="78" y="66" font-size="10" text-anchor="start" class="lbl" fill="#6B635B">wall D side</text><text x="644" y="66" font-size="10" text-anchor="end" class="lbl" fill="#6B635B">wall C side</text><text x="94" y="398" font-size="9" text-anchor="start" class="lbl" fill="#2B2622"></text>
 </svg><figcaption><b>Wall A, sofa wall.</b> High 72" x 24" window centered with sill at 60", sofa centered below, drum flush mount on the ceiling line, rug edge at the floor.</figcaption></figure>
 <figure><svg viewBox="0 0 756 542" xmlns="http://www.w3.org/2000/svg" role="img">
 <defs><marker id="eb-a" viewBox="0 0 10 10" refX="10" refY="5" markerWidth="7" markerHeight="7" orient="auto-start-reverse"><path d="M0,1 L10,5 L0,9 z" fill="#2B2622"/></marker>
@@ -245,24 +247,24 @@ footer{font-size:12px;color:var(--muted)}
 <p class="sub">Prices are approximate. Paste links into the URL fields.</p>
 <div class="cards"><article class="card">
 <div class="cat">Sofa</div>
-<h3>Quince Sierra Curved Arm Sofa in Performance Velvet</h3>
-<dl><dt>Size</dt><dd>96" W x 38" D</dd><dt>Color</dt><dd>Rust</dd><dt>Price</dt><dd>about $1,450</dd></dl>
-<label>URL <input type="url" placeholder="https://" aria-label="Sofa product URL"></label>
+<h3>Quince Stillman Deep Seat Sofa in Performance Velvet</h3>
+<dl><dt>Size</dt><dd>9 ft: 108" W x 46" D x 34" H; seat 17" H, 30" deep</dd><dt>Color</dt><dd>Rust</dd><dt>Price</dt><dd>TBD, confirm on product page</dd></dl>
+<label>URL <input type="url" value="https://www.quince.com/home/stillman-deep-seat-sofa-in-performance-velvet?color=rust&amp;size=9ft" placeholder="https://" aria-label="Sofa product URL"></label>
 </article><article class="card">
 <div class="cat">Rug</div>
 <h3>Loloi Layla LAY-04</h3>
 <dl><dt>Size</dt><dd>8' x 10'</dd><dt>Color</dt><dd>Ocean / Rust</dd><dt>Price</dt><dd>under $300</dd></dl>
-<label>URL <input type="url" placeholder="https://" aria-label="Rug product URL"></label>
+<label>URL <input type="url" value="" placeholder="https://" aria-label="Rug product URL"></label>
 </article><article class="card">
 <div class="cat">Wallpaper</div>
 <h3>TBD, small-scale botanical</h3>
 <dl><dt>Size</dt><dd>Wall B, about 98 sq ft (144" x 98"); order about 110 sq ft for repeat waste</dd><dt>Color</dt><dd>Olive and clay on cream</dd><dt>Price</dt><dd>TBD</dd></dl>
-<label>URL <input type="url" placeholder="https://" aria-label="Wallpaper product URL"></label>
+<label>URL <input type="url" value="" placeholder="https://" aria-label="Wallpaper product URL"></label>
 </article><article class="card">
 <div class="cat">Flush mount</div>
 <h3>Millennium Rosata 4031-WH</h3>
 <dl><dt>Size</dt><dd>20" diameter</dd><dt>Color</dt><dd>White with burnished gold interior</dd><dt>Price</dt><dd>about $214</dd></dl>
-<label>URL <input type="url" placeholder="https://" aria-label="Flush mount product URL"></label>
+<label>URL <input type="url" value="" placeholder="https://" aria-label="Flush mount product URL"></label>
 </article></div>
 </section>
 
@@ -275,7 +277,7 @@ footer{font-size:12px;color:var(--muted)}
 </ul>
 </section>
 
-<footer>Plan scale 1" = 4 px. Existing pieces: walnut media console, walnut lounge chair, wood sling chair, chest, floor lamp, monstera. No end tables.</footer>
+<footer>Plan scale 1" = 4 px. Existing pieces: walnut media console, walnut lounge chair, chest, floor lamp, monstera. No end tables.</footer>
 </main>
 </body>
 </html>
